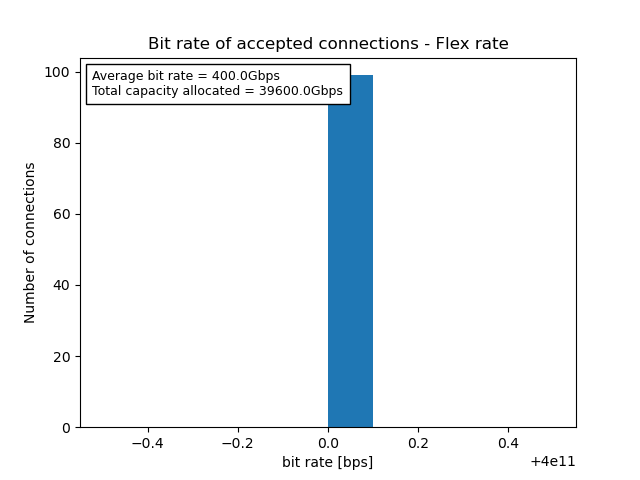
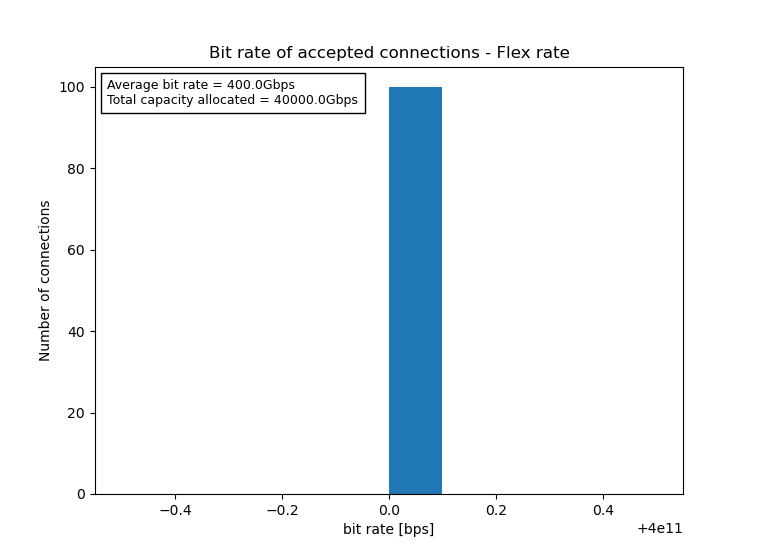
Update results and comments in Lab9

diff --git a/Lab09/core/Elements/Line.py b/Lab09/core/Elements/Line.py
@@ -3,17 +3,18 @@ from Lab09.core.Info.Lightpath import Lightpath
 import numpy as np
 from math import ceil
 
-n_channel = 10
-g = 16  # dB
-nf = 3  # dB
-f = 193.414e12  # C-band center
-alpha_dB_km = 0.2  # dB/Km
-beta2 = 2.13e-26  # (m Hz^2)^-1
-gamma = 1.27e-3 # inv(WM)
-df = 50e9  # GHz
-Rs = 32e9  # GHz
-Pch_base = 1e-3
+n_channel = 10  # Number of channel
 Bn = 12.5e9  # Noise Bandwidth [GHz]
+G = 16   # Gain amplifier  [dB]
+NF = 3  # Noise Figure [dB]
+f = 193.414e12  # C-band center [Hz]
+alpha_dB_km = 0.2  # Fiber attenuation loss[dB/Km]
+beta2 = 2.13e-26  # chromatic dispersion factor (m Hz^2)^-1
+gamma = 1.27e-3  # inv(WM)
+df = 50e9  # WDM channel spacing [Hz]
+Rs = 32e9  # Symbol Rate [Hz]
+Pch_base = 1e-3  # Power base [W]
+
 
 class Line(object):
     def __init__(self, line_dict):
@@ -22,14 +23,13 @@ class Line(object):
         self._successive = {}
         self._state = np.ones(n_channel, np.int8)  # Free
         self._n_amplifiers = 0
-        self._gain = g
-        self._noise_figure = nf
+        self._gain = G
+        self._noise_figure = NF
         self._alfa = (alpha_dB_km / 1e3) / (20 * np.log10(np.exp(1)))
         self._beta2 = beta2
         self._gamma = gamma
         self._Leff = 1 / (2 * self.alfa)
         self._n_span = 0
-
 
     @property
     def label(self):
@@ -123,20 +123,18 @@ class Line(object):
         return signal_information
 
     def ase_generation(self):
-        #print("LEN: ", self.length)
-        self.n_amplifiers = (ceil(self.length / 80e3) -1)+2
+        # print("LEN: ", self.length)
+        self.n_amplifiers = (ceil(self.length / 80e3) - 1) + 2
         return self.n_amplifiers * (h * f * Bn * (10 ** (self.noise_figure / 10)) * ((10 ** (self.gain / 10)) - 1))
 
     def nli_generation(self, signal):
         nli = signal.signal_power ** 3 * self.eta_nli_generation() * self.n_span * Bn
-        #print("PATH signal: ", signal.path)
-        #print("N_SPAN: ", self.n_span, "Bn: ", Bn, "Pch_base: ", signal.signal_power)
-        #print("NLI: ", nli, "ETA: ", self.eta_nli_generation(), "ASE: ", self.ase_generation())
+        # print("PATH signal: ", signal.path)
+        # print("N_SPAN: ", self.n_span, "Bn: ", Bn, "Pch_base: ", signal.signal_power)
+        # print("NLI: ", nli, "ETA: ", self.eta_nli_generation(), "ASE: ", self.ase_generation())
         return nli
 
     def eta_nli_generation(self):
         return 16 / (27 * np.pi) * np.log(
             (np.pi ** 2) / 2 * self.beta2 * (Rs ** 2) / self.alfa * (n_channel ** (2 * Rs / df))) \
                * (self.alfa / self.beta2 * ((self.gamma ** 2) * (self.Leff ** 2) / (Rs ** 3)))
-
-

diff --git a/Lab09/core/Info/Lightpath.py b/Lab09/core/Info/Lightpath.py
@@ -1,6 +1,7 @@
 from Lab09.core.Info.SignalInformation import SignalInformation
-df = 50 #GHz
-Rs = 35 #GHz
+df = 50e9  # WDM channel spacing [Hz]
+Rs = 32e9  # Symbol Rate [Hz]
+
 class Lightpath(SignalInformation):
     def __init__(self, power, path, channel):
         self._signal_power = power

diff --git a/Lab09/core/utils.py b/Lab09/core/utils.py
@@ -7,7 +7,6 @@ from Lab09.core.Elements.Connection import Connection
 import random as rand
 import matplotlib.pyplot as plt
 import statistics as st
-from matplotlib.widgets import TextBox
 
 def truncate(number, decimals=0):
     """

diff --git a/Lab09/core/Elements/Network.py b/Lab09/core/Elements/Network.py
@@ -10,8 +10,8 @@ import copy
 
 n_channel = 10
 ber_t = 1e-3
-Rs = 32e9
-Bn = 12.5e9
+Rs = 32e9  # Symbol Rate [Hz]
+Bn = 12.5e9  # Noise Bandwidth [GHz]
 
 
 class Network(object):
